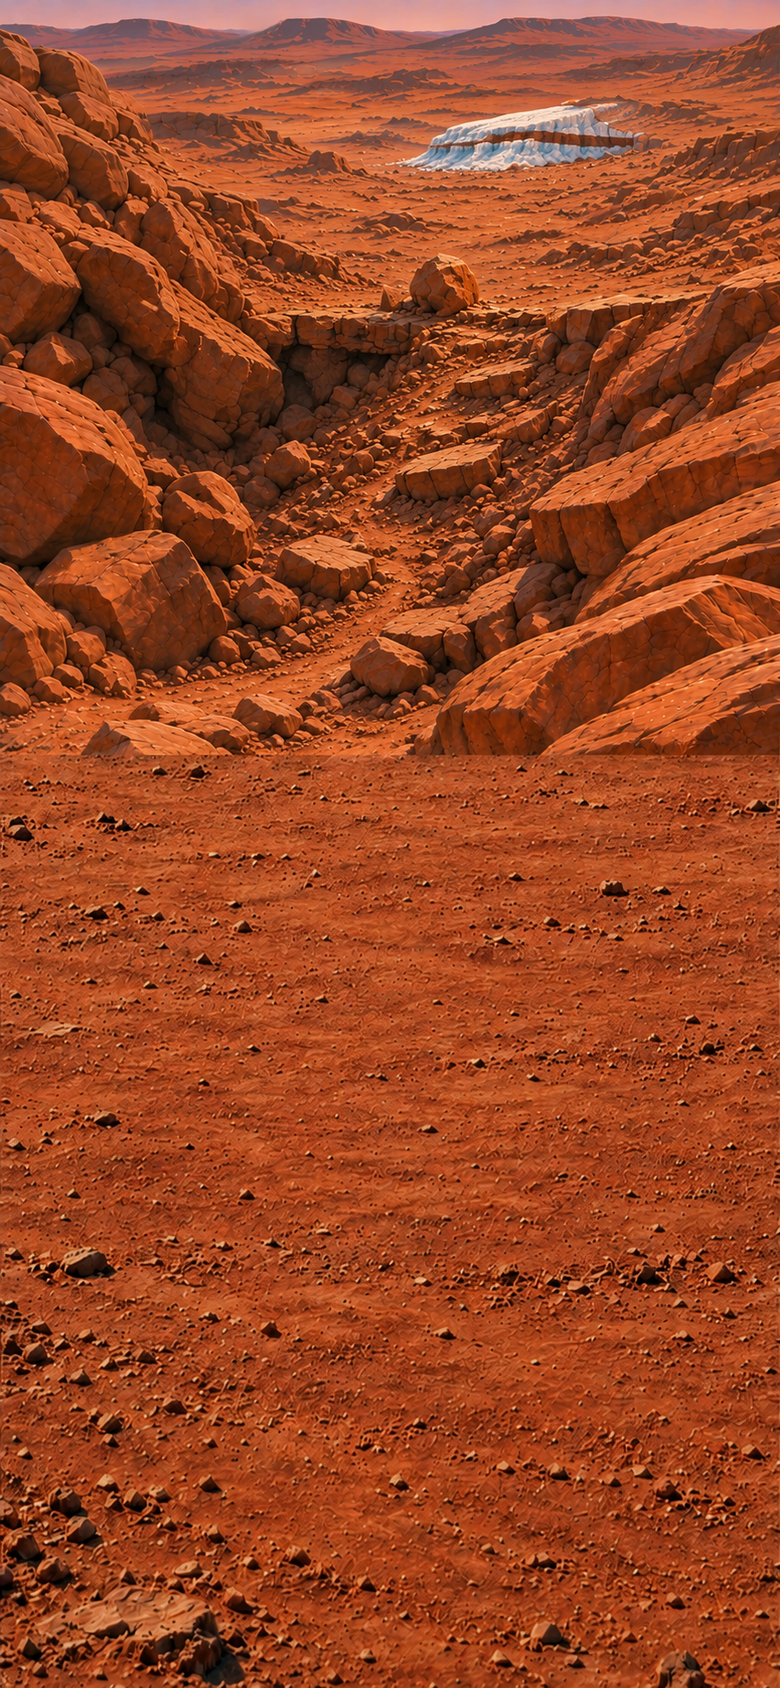
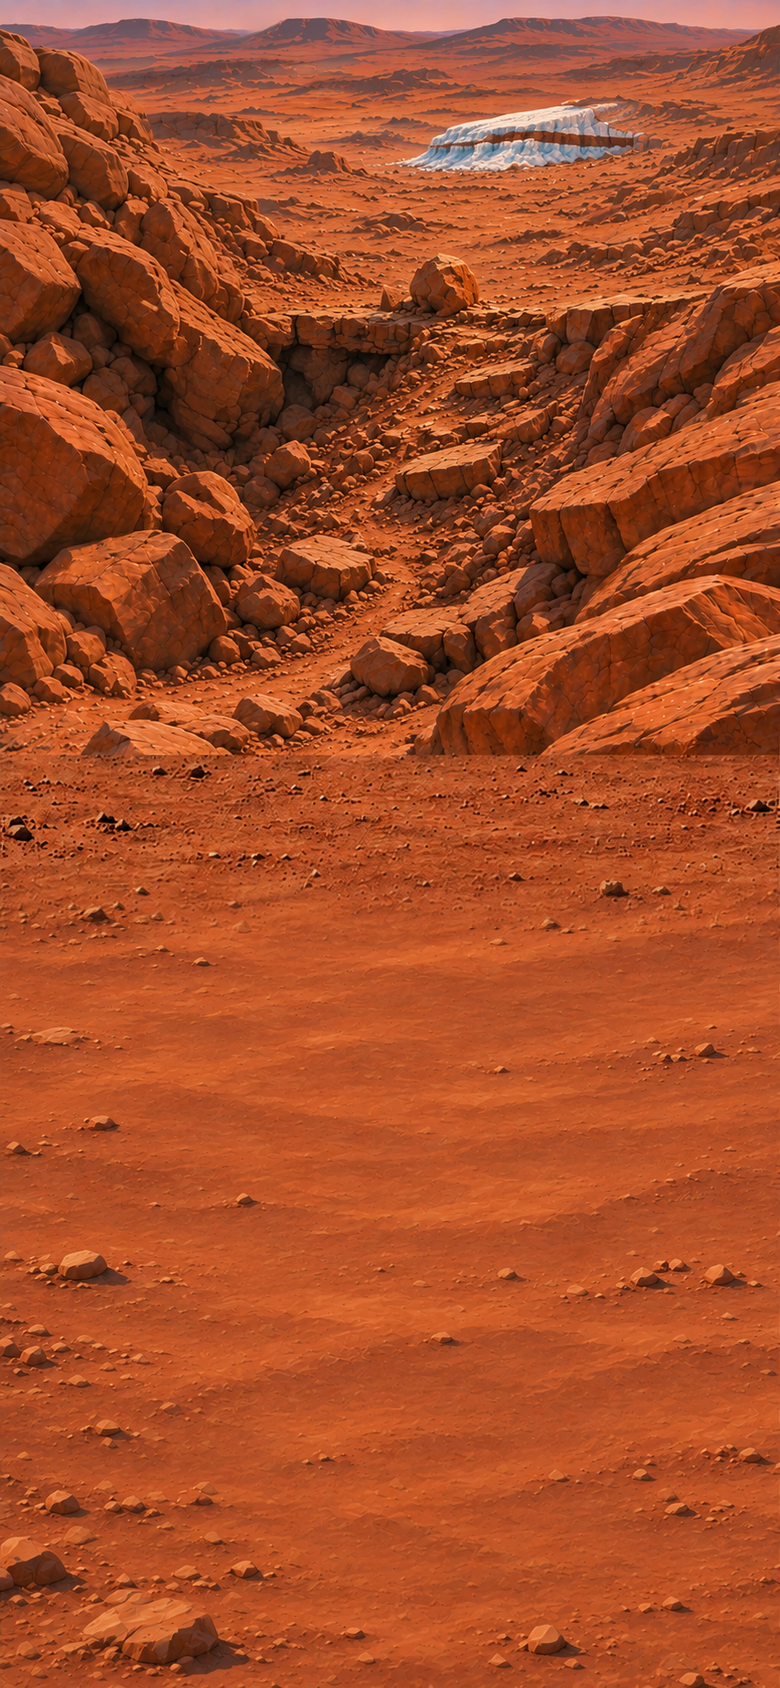
Blend Mars gully foreground and enlarge anchor target

Changed region(s): [[0.0, 0.5237, 1.0, 1.0]]

diff --git a/projects/mars-study/production/live-feedback/gully-revision/export.py b/projects/mars-study/production/live-feedback/gully-revision/export.py
@@ -1,4 +1,4 @@
-"""Extract generated silhouettes and register them on one unchanged landscape.
+"""Extract generated silhouettes and register them on one shared landscape.
 Pillow only. Generated pixel crops, extraction masks and resizing; no painting.
 Run from any working directory. Disposable proof images go under runs/.
 """
@@ -19,6 +19,15 @@ def cut(im,poly,holes=(),soften=.4):
  if soften:m=m.filter(ImageFilter.GaussianBlur(soften))
  out=im.copy();out.putalpha(m);return out
 base=source('central'); rig=source('rigged'); arr=source('reached')
+# Retain every original pixel in the upper half, including all changing
+# equipment. Blend the selected painted foreground only below the midpoint.
+foreground=source('foreground')
+transition=(844,960)
+mask=Image.new('L',SIZE)
+for y in range(SIZE[1]):
+ t=max(0,min(1,(y-transition[0])/(transition[1]-transition[0])))
+ mask.paste(round(255*t*t*(3-2*t)),(0,y,SIZE[0],y+1))
+base=Image.composite(foreground,base,mask)
 winch_poly=[(352,325),(354,316),(360,313),(361,292),(365,287),(377,286),(386,288),(390,286),(400,287),(407,289),(417,292),(419,314),(427,315),(429,326),(417,331),(399,333),(355,330)]
 sling_poly=[(417,294),(439,292),(457,288),(470,283),(478,279),(481,281),(483,290),(481,299),(473,306),(458,311),(441,315),(419,317)]
 winch=Image.new('RGBA',SIZE);winch.alpha_composite(cut(rig,winch_poly));winch.alpha_composite(cut(rig,sling_poly))

diff --git a/projects/mars-study/production/live-feedback/gully-revision/README.md b/projects/mars-study/production/live-feedback/gully-revision/README.md
@@ -4,7 +4,7 @@ This selected replacement restores the older landscape's broken ledges, loose ru
 
 The ready cable lies slack in an S-curve over the terrain. It represents the paid-out lead before attachment and tensioning. The pull uses the continuous rough wheel route; it does not bridge the side drop. The completed operation includes the remaining drive toward the ice, unhooking and reeling, without another player action. Qualified foot access, sound anchoring, traction and recovery remain story premises.
 
-The selected masters in `sources/` were made with built-in image generation. The four request JSONs record the base, two independent equipment edits and the winch-centering correction. The first rigged edit was an intermediate input to that correction and remains disposable under `runs/`; the final corrected master is retained. No equipment or scenery is painted by [the exporter](export.py): it selects generated silhouettes, the cable and contact shadows, then registers them on the one unchanged background. Both replacement states share the exact canvas and centre recorded in [geometry.json](geometry.json).
+The selected masters in `sources/` were made with built-in image generation. The original four request JSONs record the base, two independent equipment edits and the winch-centering correction. The later [foreground request](foreground.request.json) records the selected lower-half repaint; its exact input is retained in `references/foreground-before.webp`. The first rigged edit was an intermediate input to that correction and remains disposable under `runs/`; the final corrected master is retained. No equipment or scenery is painted by [the exporter](export.py): it selects generated silhouettes, the cable and contact shadows, then registers them on one shared background. The foreground refinement preserves original rows 0–843 exactly, blends the selected painting through rows 844–959, and uses it fully below row 960. Every changed equipment pixel lies above that transition, so the original overlays remain byte-identical. Both replacement states share the exact canvas and centre recorded in [geometry.json](geometry.json).
 
 ```sh
 python projects/mars-study/production/live-feedback/gully-revision/export.py
@@ -14,10 +14,18 @@ The exporter needs Pillow. Runtime files are in `stories/mars/assets/live-feedba
 
 | State | Artwork centre | Receiving bounds |
 |---|---|---|
-| Bedrock anchor | 56.53846154%, 16.76540284% | Its fully transparent 240 × 180 PNG displays as 60 × 45 CSS pixels at the reference viewport. |
+| Bedrock anchor | 56.53846154%, 16.76540284% | The unchanged transparent graphic displays at 60 × 45 CSS pixels; an explicit 120 × 90 receiver at the same centre doubles both dimensions without changing the artwork. |
 | Rigged winch and cable | 60.25641026%, 26.06635071% | `hitbox: (at 48.07692308%, 30.65758294%) (size 29.48717949%, 28.73222749%)` covers the winding cable and winch. |
 | Reached rover and ice | Identical to rigged state | `hitbox: (at 67.43589744%, 9.62677725%) (size 32.82051282%, 8.59004739%)` covers the actual distant banded ice and the rover below it. |
 
 Both route PNGs are **920 × 1440**, corresponding to scene rectangle `[240,80,700,800]` on the **780 × 1688** background. Installing the winch preserves the transparent bedrock target. Rover arrival transforms the rigged state into the reached state at their common centre, retiring the long foreground cable. The chapter therefore needs at most two live fixed identities. The reached target appears only after the crossing; it receives the core drill on the visible ice.
 
 Producer checks: all four runtime assets decode; the two route PNGs have identical canvases and transparent exteriors. Registered source composites were inspected at 390px and at the 320px centre crop, and the root task inspected the 390px pair. The winding cable is continuous, the rover is beyond the winch, and the brown layer remains exposed. Actual browser interaction and fresh independent review belong to the parent task and are not established by these source-composite checks. Disposable proofs and superseded candidates are under `runs/mars-gully-revision/`.
+
+## Foreground and anchor refinement
+
+4 November 2026. The user retained the upper gully and requested a better integrated lower foreground plus a larger anchor target. Built-in imagegen supplied the selected painterly lower terrain; [the exact request](foreground.request.json), necessary reference and selected master are retained. The expanded receiver is 120 × 90 at the original centre. The anchor graphic and both equipment overlays remain byte-identical; all original upper-half pixels compare exactly. Fast story lint and diff whitespace checks pass.
+
+Fresh informed reviewer `gully_foreground_review`, **5 November 05:55:48–05:56:38 UTC** (4 November 21:55:48–21:56:38 PST), inspected empty, rigged and reached composites and actual play at 390px and 320px. The foreground's colour, painted texture and perspective continue coherently, with no obvious seam, blurred transition band or equipment-registration defect. The measured target is 120 × 90 and its artwork 60 × 45. Actual winch drops 45px right of centre—outside the former target—succeed; rover crossing, core sampling and reload pass, with no browser errors. This is informed visual/interaction review, not blind recognition or human usability evidence.
+
[1 lines of base64/hex data omitted]

diff --git a/stories/mars/design-brief.md b/stories/mars/design-brief.md
@@ -122,7 +122,7 @@ A separate locally made methane cylinder receives the dry fuel only after hydrog
 
 ## Field specimens, repair and supper
 
-The gully must look treacherous: broken rock ledges, loose rubble and a deep side drop, with a difficult continuous wheel route rather than an easy smooth ramp. The winch adds traction; it does not fly the rover across a gap. A qualified foot scramble permits rigging and recovery. Sound anchoring, rover stability and winch rating remain scene premises. The rover has a consistent front and rear. A winch on the central far ledge has a slack cable snaking over the ground in perspective down the central route. The ice remains a meaningful distance beyond that ledge across a plateau. Completing the pull bundles unhooking, reeling and the onward drive: the rover appears smaller beyond the winch, near the distant brown-layer ice. Its reached receiver includes that actual ice face as well as the rover, while the earlier receiver follows the cable route.
+The gully must look treacherous: broken rock ledges, loose rubble and a deep side drop, with a difficult continuous wheel route rather than an easy smooth ramp. The winch adds traction; it does not fly the rover across a gap. A qualified foot scramble permits rigging and recovery. Sound anchoring, rover stability and winch rating remain scene premises. The rover has a consistent front and rear. A winch on the central far ledge has a slack cable snaking over the ground in perspective down the central route. The ice remains a meaningful distance beyond that ledge across a plateau. Completing the pull bundles unhooking, reeling and the onward drive: the rover appears smaller beyond the winch, near the distant brown-layer ice. Its reached receiver includes that actual ice face as well as the rover, while the earlier receiver follows the cable route. Give the anchor rock a generous receiving area without enlarging its painting. The lower foreground continues the upper scene’s painted terrain, palette and perspective, avoiding an unrelated photographic soil texture; preserve the accepted upper-half geography when refining it.
 
 The reached-ice receiver is derived from bringing the rover across. No primitive distant target permits early core collection. Sampling includes a cold sealed liner, the existing rover cold cradle, controlled return and winch recovery. At the lab, an empty slide takes a cold representative shaving from the remote core; preparation preserves the original core. Existing lab tools and cooling handle the brief preparation, with no separate fixture token. Show the cut local core as pale blue-white ice in a discreet clear liner, then the same cylinder in a modest foil/felt wrap with a short exposed strip of ice visible in profile. Use a purely side-on horizontal profile throughout collection, wrapping and flight storage, without a visible circular end face or perspective foreshortening. The compact original four-sample return rack determines that orientation. The remote core has a prominent brown layer matching the distant ice bank; its identifying icon shows that ice rather than an opaque package. Each core uses a close-fitting sealed liner and earlier reflective insulation for transfer; insulation slows heating but does not refrigerate. Existing laboratory, rover and flight cooling do that job. The two original cores board separately into one compact original-mission cold rack with four close-spaced horizontal sample slots, thin padding and simple restraints. The entire compartment is one receiving target; either core can be installed first and both fitted appearances remain. Two slots remain empty because the mission ended early; no oversized individual cradles or redundant empty rack sits on the right. Neither slide goes home. If an inclusion was shaved out, the story must not promise that the exact imaged individual is still in the parent core. Preserve uncertainty without adding routine-assay puzzles.
 

diff --git a/notes.md b/notes.md
@@ -1263,3 +1263,9 @@ The user moved cave shelter before the furnace and removed its brick pad: Chapte
 Chapter 22 now has one compound receiver covering the original four-place sample compartment. Either core can be installed first, the first remains visible, and two places remain empty. The local, wrapped and remote core family uses matching purely side-on profiles; thin padding, close spacing and simple restraints replace the bulky holders. The [active brief](stories/mars/design-brief.md) and requested design examples match these changes.
 
 [Independent review](projects/mars-study/art-review/2026.11.04_21.21.20/report.md) passed actual drags at 390px/320px, reloads, all affected partial states and natural continuations. Complete replay uses 208 actions across 24 chapters, with 78 alternate continuations; 188 referenced images decode and 28 protected regions pass. Full lint retains the existing analysis limit and three reviewed mixed-fate warnings. No full-build pass is claimed. Selected artwork remains in production; temporary runs were removed. Mars study stays active, frozen references are unchanged, and no publication was performed.
+
+## 4 November 2026 — Mars gully foreground and anchor target
+
+Chapter 11's anchor receiver doubles from 60 × 45 to 120 × 90 without changing its graphic or centre. A selected imagegen foreground replaces the unrelated photographic soil treatment below the scene midpoint; the entire upper half remains pixel-identical, preserving the accepted gully and all equipment registration. The [production record](projects/mars-study/production/live-feedback/gully-revision/README.md#foreground-and-anchor-refinement) retains the request, selected source, geometry and concise independent review.
+
+Actual drags at 390px/320px accept the newly enlarged edge and complete winch → rover → ice sampling, including reload. Informed review found no visible transition or registration defect. Fast lint and whitespace checks pass; all equipment overlays are byte-identical. No engine change, new science claim or full-playtest claim is involved. Temporary run artifacts were removed; v12 and the published build remain unchanged.

diff --git a/stories/mars/mars.md b/stories/mars/mars.md
@@ -796,6 +796,7 @@ Broken ledges and loose rubble block the rover’s climb. I can scramble to soun
 **Hotspots**
 - `bedrock-anchor` (at 56.53846154%, 16.76540284%)
   - icon: ![Bedrock anchor](assets/live-feedback/gully-revision/central-bedrock-hit.png)
+  - hitbox: (at 56.53846154%, 16.76540284%) (size 30.76923077%, 10.66350711%)
 - `anchored-winch` (at 60.25641026%, 26.06635071%)
   - icon: ![Winch with extended cable](assets/live-feedback/gully-revision/rigged-winch.png)
   - hitbox: (at 48.07692308%, 30.65758294%) (size 29.48717949%, 28.73222749%)
